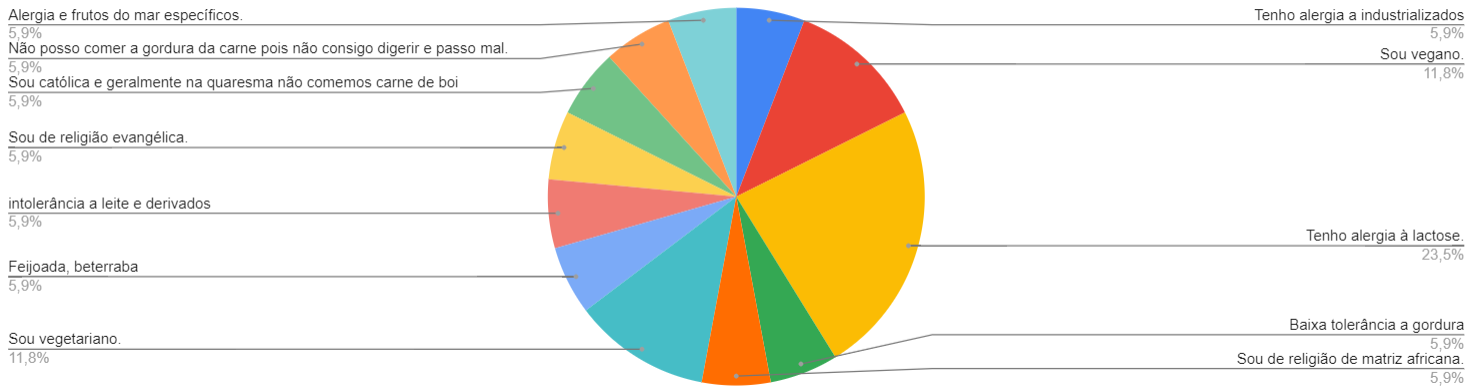
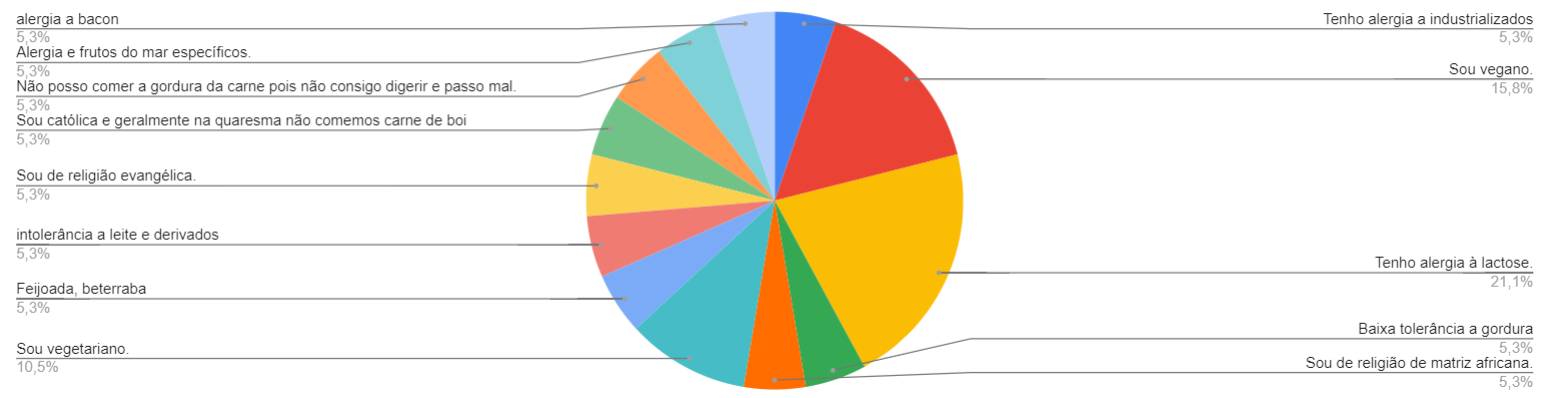
Mudando CSS e HTML

Changed region(s): [[0.0, 0.0, 0.9993, 1.0], [0.5933, 0.551, 0.9993, 0.8265], [0.6246, 0.4592, 0.6558, 0.551]]

diff --git a/index.html b/index.html
@@ -6,6 +6,7 @@
     <title>Alimentação Escolar Como Direito</title>
     <link href="https://cdn.jsdelivr.net/npm/bootstrap@5.3.3/dist/css/bootstrap.min.css" rel="stylesheet" />
     <link rel="stylesheet" href="style.css">
+    <link rel="stylesheet" href="https://cdn.jsdelivr.net/npm/bootstrap-icons@1.10.5/font/bootstrap-icons.css">
 </head>
 <body>
     <!-- Navbar -->
@@ -57,35 +58,22 @@
                     <ul>
                         <li><strong>Pesquisas acadêmicas:</strong> levantamentos e estudos sobre a realidade da alimentação escolar, identificando desafios, lacunas e oportunidades de melhoria.</li>
                         <li><strong>Ações educativas em escolas:</strong> oficinas, palestras e atividades para estudantes e profissionais sobre alimentação saudável, respeito às restrições alimentares e sustentabilidade.</li>
-                        <li><strong>Capacitação de profissionais:</strong> treinamentos para nutricionistas, cozinheiros e gestores de escolas, garantindo refeições inclusivas e seguras.</li>
+                        <li><strong>Capacitação de profissionais:</strong> Pretendemos fazer treinamentos para nutricionistas, cozinheiros e gestores de escolas, garantindo refeições inclusivas e seguras.</li>
                     </ul>
                 </div>
                 <h4 class="text-center">Nossa Jornada pela Alimentação Escolar</h4>
-                <div id="coletivoCarousel" class="carousel slide" data-bs-ride="carousel">
-                    <div class="carousel-indicators">
-                        <button type="button" data-bs-target="#coletivoCarousel" data-bs-slide-to="0" class="active" aria-current="true" aria-label="Slide 1"></button>
-                        <button type="button" data-bs-target="#coletivoCarousel" data-bs-slide-to="1" aria-label="Slide 2"></button>
-                        <button type="button" data-bs-target="#coletivoCarousel" data-bs-slide-to="2" aria-label="Slide 3"></button>
-                    </div>
-                    <div class="carousel-inner">
+                <div id="coletivoCarousel" class="carousel slide carousel-fade" data-bs-ride="carousel" data-bs-interval="1500">
+                    <div class="carousel-inner rounded shadow-soft">
                         <div class="carousel-item active">
-                            <img src="imagem1.jpg" class="d-block w-100 rounded" alt="Imagem 1">
+                            <img src="imagem1.jpg" class="d-block w-100" alt="Imagem 1">
                         </div>
                         <div class="carousel-item">
-                            <img src="imagem2.jpg" class="d-block w-100 rounded" alt="Imagem 2">
+                            <img src="imagem2.jpg" class="d-block w-100" alt="Imagem 2">
                         </div>
                         <div class="carousel-item">
-                            <img src="imagem3.jpg" class="d-block w-100 rounded" alt="Imagem 3">
+                            <img src="imagem3.jpg" class="d-block w-100" alt="Imagem 3">
                         </div>
                     </div>
-                    <button class="carousel-control-prev" type="button" data-bs-target="#coletivoCarousel" data-bs-slide="prev">
-                        <span class="carousel-control-prev-icon" aria-hidden="true"></span>
-                        <span class="visually-hidden">Anterior</span>
-                    </button>
-                    <button class="carousel-control-next" type="button" data-bs-target="#coletivoCarousel" data-bs-slide="next">
-                        <span class="carousel-control-next-icon" aria-hidden="true"></span>
-                        <span class="visually-hidden">Próximo</span>
-                    </button>
                 </div>
             </div>
         </div>
@@ -159,7 +147,7 @@
                     <div class="resultado-card text-center">
                         <div class="resultado-ano">2025</div>
                         <small class="text-muted">Dados da pesquisa</small>
-                        <div class="resultado-valor mt-2">101</div>
+                        <div class="resultado-valor mt-2">126</div>
                         <div class="resultado-dificuldades mt-1">
                             <img src="grafico2025.png" 
                                  alt="Gráfico dos resultados da pesquisa de 2025" 
@@ -190,6 +178,9 @@
                 <a href="https://docs.google.com/forms/d/e/1FAIpQLSd8uaRyHfVsZJt9P4lYdP_BpwQX3COQ6u9NsNFlrevbGMc53w/viewform?usp=header" target="_blank" class="btn btn-cenoura btn-lg px-4 fw-semibold">
                     📋 Pesquisa 2 (Bolo de Cenoura)
                 </a>
+                <a href="https://docs.google.com/document/d/1QUL7Yn8BwiLF1FVqdH21IrNCtGXe3npjJLS6jrcUM8s/edit?usp=sharing" class="btn btn-danger btn-lg px-4 fw-semibold">
+                    🍰 Ver Receitas dos Bolos
+                </a>
             </div>
         </div>
     </section>
@@ -206,7 +197,7 @@
                 <li class="mb-2">Promover a conscientização sobre diversidade alimentar</li>
                 <li class="mb-2">Fortalecer a representatividade estudantil nas decisões nutricionais</li>
             </ul>
-            <div class="d-flex flex-column flex-md-row justify-content-center gap-3">
+            <div class="d-flex flex-column flex-md-row justify-content-center gap-3 mt-3">
                 <a href="https://forms.gle/WvV796GDQzWEz36z6" target="_blank" class="btn btn-primary btn-lg px-4 fw-semibold">
                     📋 Responder formulário
                 </a>
@@ -229,6 +220,11 @@
     <div class="img-overlay" id="imgOverlay">
       <img src="" alt="Imagem ampliada" id="overlayImg">
     </div>
+
+    <!-- Ícone flutuante do Instagram -->
+    <a href="https://www.instagram.com/veg_if.cpin?igsh=MXY5aWdqaWUyeHJ3NA==" target="_blank" class="instagram-floating">
+        <i class="bi bi-instagram"></i>
+    </a>
 
     <script src="https://cdn.jsdelivr.net/npm/bootstrap@5.3.3/dist/js/bootstrap.bundle.min.js"></script>
     <script src="script.js"></script>

diff --git a/style.css b/style.css
@@ -420,3 +420,51 @@ h2 {
 .navbar-toggler.rotated {
   transform: rotate(180deg);
 }
+.instagram-floating {
+    position: fixed;
+    bottom: 20px;
+    right: 20px;
+    z-index: 1000;
+    width: 60px;
+    height: 60px;
+    border-radius: 50%;
+    background: linear-gradient(45deg, #f58529, #dd2a7b, #8134af, #515bd4);
+    display: flex;
+    align-items: center;
+    justify-content: center;
+    box-shadow: 0 4px 6px rgba(0,0,0,0.3);
+    transition: transform 0.3s, opacity 0.3s;
+}
+.instagram-floating:hover {
+    transform: scale(1.1);
+    opacity: 0.9;
+}
+.instagram-floating i {
+    color: #fff;
+    font-size: 28px;
+}
+/* ===== CARROSSEL MINIMALISTA ===== */
+#coletivoCarousel {
+    max-width: 900px;      /* largura máxima centralizada */
+    margin: 2rem auto;
+    border-radius: 16px;
+    overflow: hidden;
+    box-shadow: var(--sombra-suave);
+}
+
+#coletivoCarousel img {
+    object-fit: cover;
+    height: 450px;         /* altura fixa para ficar uniforme */
+    border-radius: 16px;
+}
+
+.carousel-fade .carousel-item {
+    transition: opacity 1s ease-in-out; /* transição suave */
+}
+
+/* Remove indicadores e setas (garantia extra) */
+.carousel-indicators,
+.carousel-control-prev,
+.carousel-control-next {
+    display: none !important;
+}
